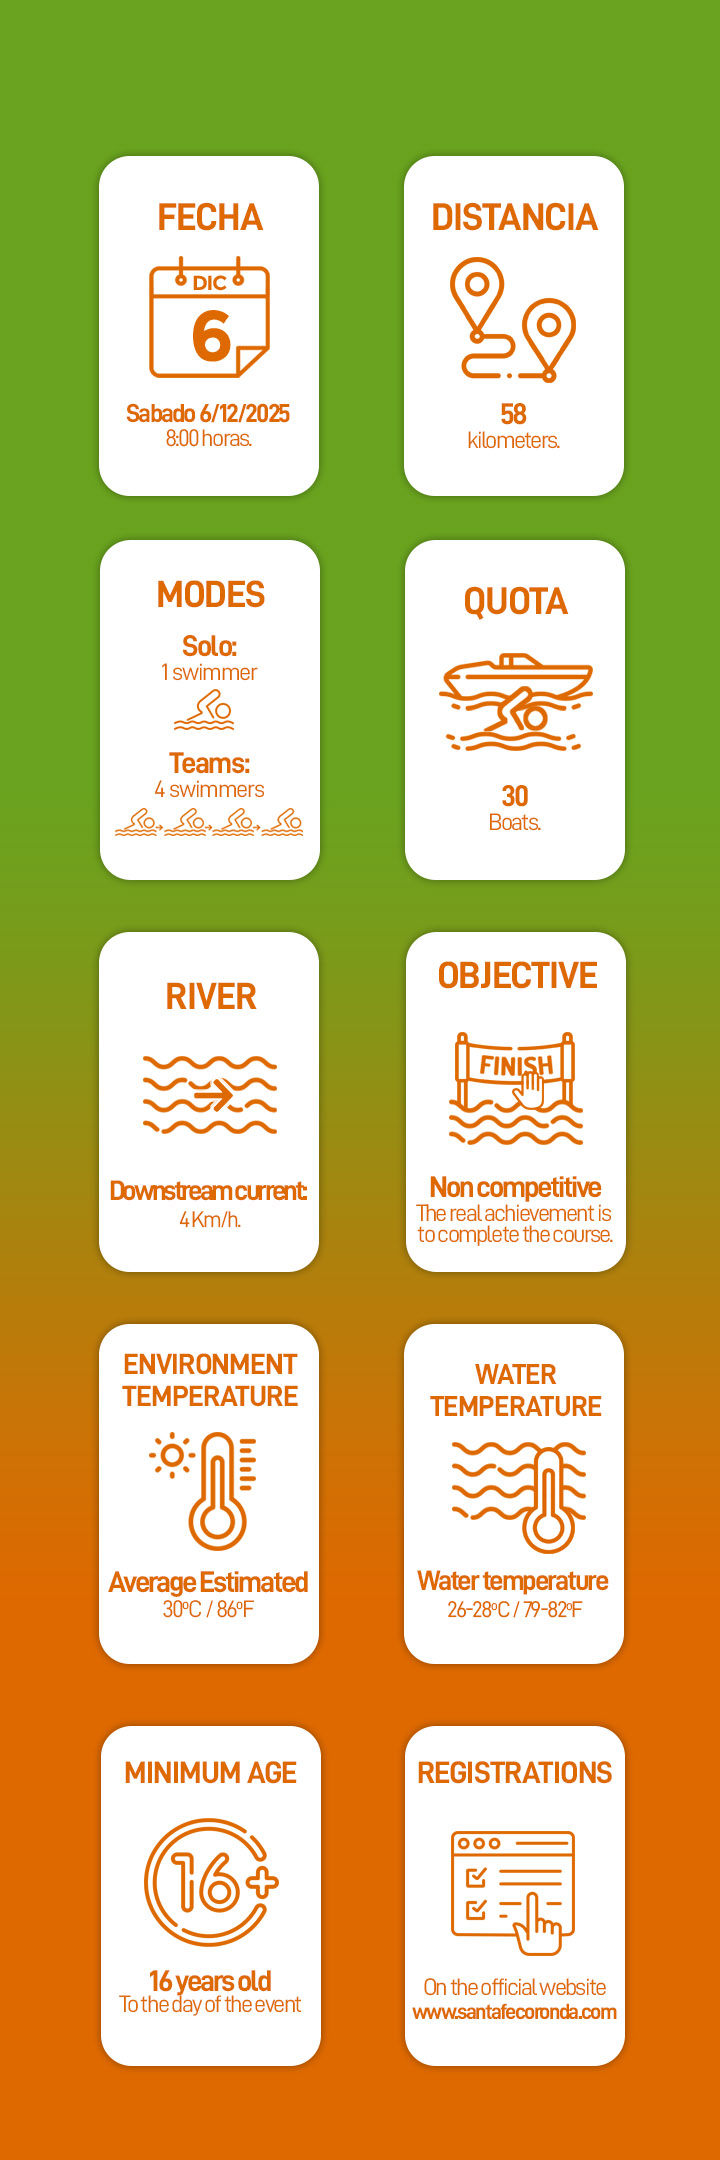
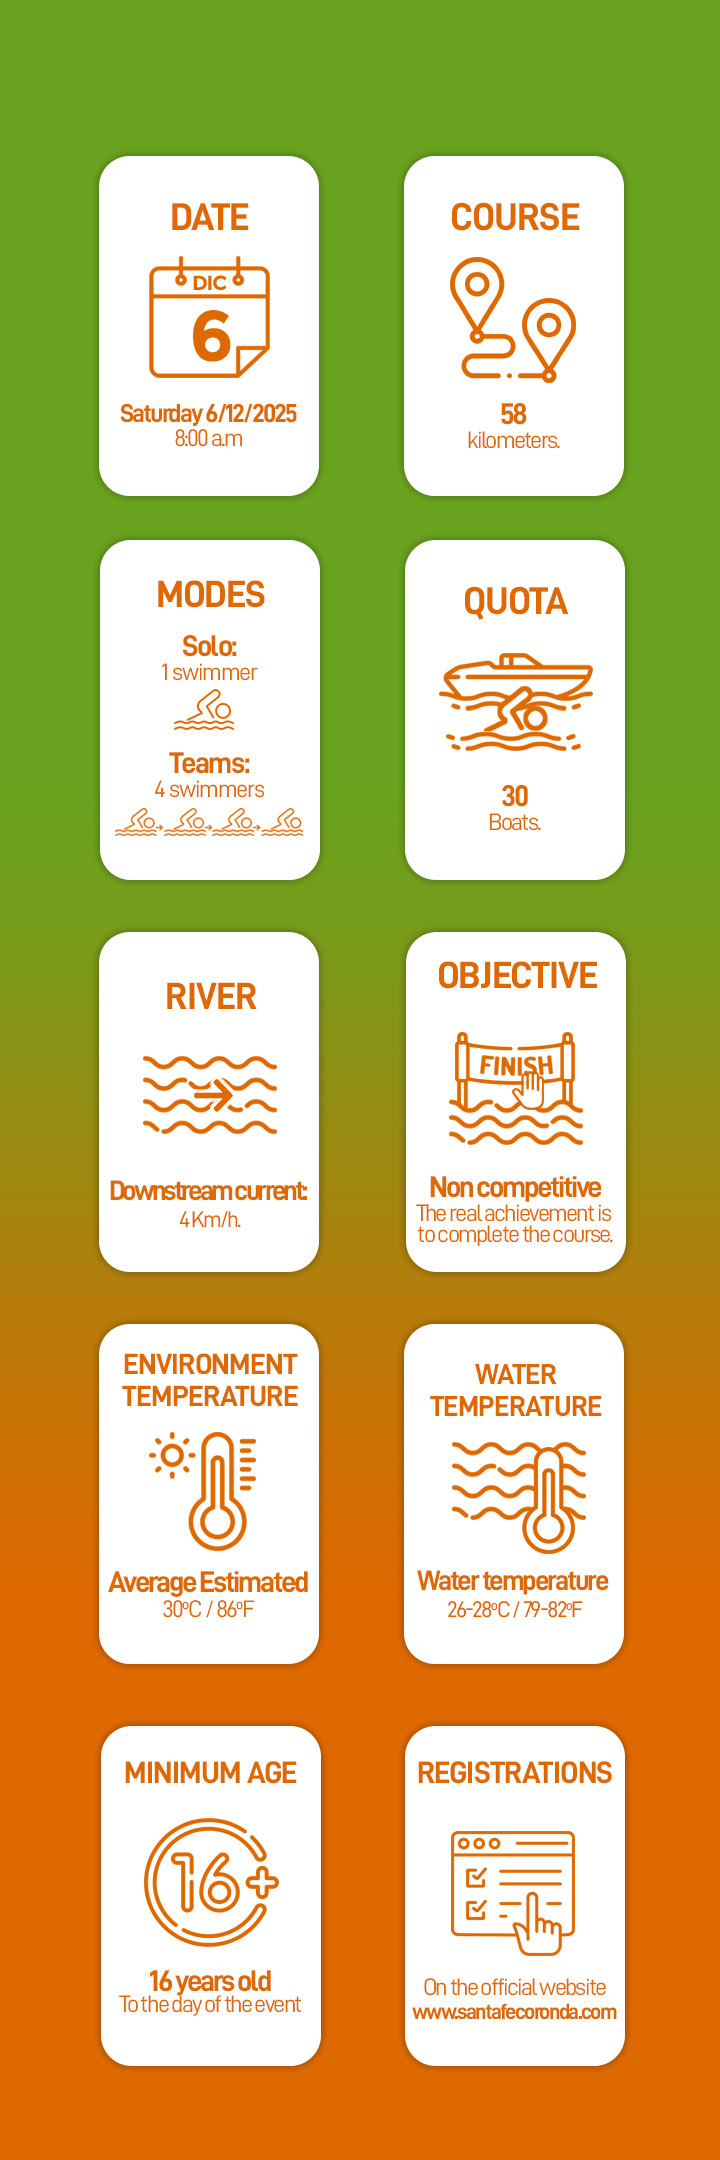
Add files via upload

Changed region(s): [[0.1528, 0.1861, 0.4278, 0.2171], [0.5806, 0.0931, 0.825, 0.1241], [0.2139, 0.0931, 0.3667, 0.1241]]

diff --git a/aficionados_en-GB.html b/aficionados_en-GB.html
@@ -122,13 +122,13 @@
     </div>
 
     <div class="boton-descarga">
-      <a href="reglamento-maraton-santafe-coronda-2025.pdf" target="_blank">
+      <a href="#" target="_blank">
         <svg xmlns="http://www.w3.org/2000/svg" class="icono-descarga" viewBox="0 0 24 24" fill="none" stroke="white" stroke-width="2" stroke-linecap="round" stroke-linejoin="round">
           <path d="M21 15v4a2 2 0 0 1-2 2H5a2 2 0 0 1-2-2v-4" />
           <polyline points="7 10 12 15 17 10" />
           <line x1="12" y1="15" x2="12" y2="3" />
         </svg>
-        <span>Descargar PDF</span>
+        <span>Download PDF</span>
       </a>
     </div>
     <div class="reglamento-item">
@@ -259,99 +259,97 @@
     <div class="reglamento-item">
       <h3 class="punto-general" data-numero="4."> Support Boats</h3>
       <div class="subcontenido">
-        <p>26. <strong>Obligación:</strong> En ambas categorías, todos los Nadadores deberán contar con una embarcación de apoyo a motor durante todo el recorrido.</p>
-        <p>27. <strong>Embarcación Propia</strong></p>
+        <p>26. <strong>Mandatory:</strong> In both categories, all swimmers must have a support motorboat along the course</p>
+        <p>27. <strong>Own boat</strong></p>
         <ul>
-          <li>Cada Nadador o Equipo podrá tener una embarcación de apoyo de su propiedad, la cual deberá ser homologada por el CO.</li>
-        <li>El CO establecerá las características que deberá cumplir tal embarcación y la homologación incluirá la verificación de dimensiones mínimas, equipamiento de seguridad y cumplimiento de normativas vigentes.</li>
-        <li>El momento para informar al CO respecto de la auto provisión de la embarcación será al completar el formulario de Inscripción.</li>
+          <li>Each Swimmer or Team may have their own support boat, which must be approved by the OC.</li>
+        <li>The OC will set the characteristics the boat must fulfill and the approval will include the minimum dimensions, safety equipment and complying of current regulations.</li>
+        <li>The use of  your own support boat must be informed  to the OC in the registration form.</li>
       </ul>
-      <p>28. <strong>Solicitar Embarcación</strong></p>
-      <ul><li>Al momento de la inscripción, un Nadador o Equipo podrá solicitar al CO la provisión de una embarcación de apoyo, abonando los costos correspondientes.
+      <p>28. <strong>Request support boat:</strong>
+</p>
+      <ul><li>When filling in the registration form, the Swimmer or Team may request the OC to be provided a support boat, paying the rental fee. </li>
+      <li>The fee includes the boat, the skipper and the fuel
       </li>
-      <li>El arancel a abonar incluirá embarcación, piloto y combustible.
-      </li>
-      <li>La asignación de embarcaciones estará sujeta a disponibilidad.
-      </li></ul>
-      <p>29. <strong>Personas embarcadas:</strong> El número de personas no deberá superar la capacidad máxima de la embarcación de apoyo, establecida por la autoridad de aplicación.</p>
-        <p>Será obligatoria la presencia de:</p>
-        <ul><li>Timonel o conductor.</li>
-        <li>Entrenador/asistente (categoría SOLO).</li>
-        <li>Nadadores relevistas (categoría EQUIPO).</li>
-        <li>Fiscal (designado por el CO).</li></ul>
-        <p>30. <strong>Responsabilidad:</strong> El Timonel o conductor de la embarcación de apoyo a motor será responsable de garantizar la seguridad de su Nadador o Equipo, debiendo cumplir con las normas de navegación establecidas por el CO y las autoridades competentes.</p>
-        <p>31. <strong>Cumplimiento de Normativas:</strong> La embarcación de apoyo deberá respetar las zonas de navegación asignadas, las velocidades máximas permitidas y cualquier otra directiva impuesta por el CO.</p>
-        <p> El incumplimiento de estas normas podrá derivar en la descalificación de su Nadador o Equipo.</p>
+      <li>The allocation of boats will be subject to availability.</li></ul>
+      <p>29. <strong>People onboard: </strong> The number of people onboard must not exceed the maximum boat capacity, established by the authorities.</p>
+        <p>It will be mandatory the presence of:</p>
+        <ul><li>Skipper or helmsman</li>
+        <li>Coach/assistant (SOLO category).</li>
+        <li>Relay swimmers (TEAM category).</li>
+        <li>Officer (assigned by the OC).</li></ul>
+        <p>30. <strong>Responsibility:</strong> The skipper or helmsman will be responsible for guaranteeing the Swimmer or the Team’s safety, complying with all the navigation regulations established by the OC and the authorities.</p>
+        <p>31. <strong>Compliance with the Rules: </strong> The support boat must respect the assigned navigation areas, the maximum speed allowed and any other guideline imposed by the OC.</p>
+        <p> Not complying with these rules may result in the disqualification of the Swimmer or Team.</p>
 
       </div>
     </div>
     <div class="reglamento-item">
       <h3 class="punto-general" data-numero="5."> The Course</h3>
       <div class="subcontenido">
-        <p>32. <strong>Extensión:</strong> La prueba tendrá una extensión de 58 (cincuenta y ocho) kilómetros y su recorrido será el siguiente:</p>
-        <ul><li>Largada: Balnearios de Costanera Este de Santa Fe.</li>
-        <li>Curso: Curso principal del Río Santa Fe, Cuatro Bocas, curso principal del Río Coronda.</li>
-        <li>Llegada: Balneario Municipal de Coronda, lugar donde estará colocada la placa de toque que indicará el final de la Maratón.</li></ul>
-        <p>33. <strong>Modificación:</strong> El CO podrá modificar el recorrido por razones de seguridad.</p>
-        <p>34.<strong>Nado en Equipos:</strong></p>
-        <ul><li>Los 4 (cuatro) integrantes del relevo podrán largar y llegar nadando juntos. El CO establecerá la distancia hasta (largada) y desde (llegada) donde podrán hacerlo.
+        <p>32. <strong>Extension:</strong> The swim will have an extension of 58 km (fifty-eight km) (36 miles) and the course will be as follows: </p>
+        <ul><li>Start: Costanera Este Beach-Santa Fe.</li>
+        <li>Course: main course of Santa Fe River, Cuatro Bocas, main course of Coronda River.</li>
+        <li>Arrival: Municipal Beach- Coronda, where the touchpad indicates the finish line.</li></ul>
+        <p>33. <strong>Modification:</strong> The OC may modify the course due to safety reasons.</p>
+        <p>34.<strong>Team Swim:</strong></p>
+        <ul><li>The 4 (four) relay swimmers may start and arrive swimming together. The OC will set the distance from the start and to the arrival where they will be allowed to do it.
         </li>
-        <li>Cada Nadador deberá completar 30 (treinta) minutos de nado. Mientras esto ocurre, los otros tres (3) relevistas deberán ir en la embarcación de apoyo a motor.
+        <li>Each Swimmer must swim 30 (thirty) minutes. While this takes place, the other 3 (three) relay swimmers must be onboard of the support motorboat.
         </li>
-        <li>La señal de relevo se realizará a través del golpe de palmas entre Nadadores y deberá ser visible.</li></ul>
-        <p>35. <strong>Tiempo límite:</strong> La duración máxima de la prueba será de 10 (diez) horas. Quien exceda este tiempo deberá abandonar la prueba y subir a su bote de apoyo. En caso de incumplimiento, se aplicará una multa en dinero y posibles sanciones adicionales.</p>
-        <p>36. <strong>Excepción:</strong> El único caso en que un Nadador o Equipo que merezca ser descalificado por exceder el límite de tiempo establecido en el artículo anterior no aplicará es que haya superado la Toma de Agua de Coronda. </p>
+        <li>The relay exchange will be made by touching the swimmer’s palms once his/her leg is finished, and it must be visible.</li></ul>
+        <p>35. <strong>Time limit: </strong> The maximum duration of the event will be 10 (ten) hours. Those out of that time limit must withdraw from the event and get on the support boat. In case of non-compliance, a monetary fine and possible additional penalties will be imposed.</p>
+        <p>36. <strong>Exception:</strong> The only case in which a Swimmer or Team that is to be disqualified for exceeding the time limit set in the above point will not comply, is that the Swimmer or Team had already reached the checkpoint at the water supply pump in Coronda.</p>
       </div>
     </div>
     <div class="reglamento-item">
       <h3 class="punto-general" data-numero="6.">Event Officers</h3>
       <div class="subcontenido">
-        <p>37. Se aplicarán las reglas de la World Aquatics (WA) para aguas abiertas.</p>
-      <p>38. <strong>Fiscal a bordo:</strong> el CO designará un fiscal para cada Nadador o Equipo, el que estará a bordo de la embarcación de apoyo a motor.</p>
-      <p>39. <strong>Cronometraje:</strong> Será manual.</p>
-      <p>40. <strong>Selectivo:</strong> este evento será clasificatorio para la prueba de élite, a disputarse en febrero. Todos aquellos Nadadores que participen en la categoría SOLO y completen el recorrido por debajo del tiempo establecido por el CO -para damas y caballeros- adquirirán derecho para participar en esta prueba.</p>
-      <p>41. <strong>Reunión técnica: </strong>el CO realizará el día previo a la Maratón un encuentro en el que se explicarán todos los detalles inherentes a la prueba. La asistencia es obligatoria, para Nadadores y Asistentes, pudiendo resultar en la descalificación de un Nadador ante ausencia de alguno de ellos.</p>
+        <p>37. The World Aquatics (WA) for Open Water Swimming rules will be applied.</p>
+      <p>38. <strong>Officer onboard:</strong> The OC will designate an officer to each Swimmer or Team, who will be onboard of the support motorboat.</p>
+      <p>39. <strong>Timing:</strong> It will be tracked manually.</p>
+      <p>40. <strong>Qualifier:</strong> This event will be a qualifier for the elite swim, to be held in February. All the Swimmers that participate in the SOLO category and complete the course under the time limit set by the OC- for Women and Men- will be eligible for the elite swim.</p>
+      <p>41. <strong>Technical briefing:  </strong>The OC will hold a technical briefing where all the necessary guidelines will be explained on the day before the event. Attendance is mandatory, both for swimmers and assistants. It may result in the disqualification of a swimmer in case of absence of one of them. </p>
       </div>
     </div>
     <div class="reglamento-item">
       <h3 class="punto-general" data-numero="7."> Registration Fee Refund</h3>
       <div class="subcontenido">
-        <p>42. <strong>Desistimiento:</strong></p>
+        <p>42. <strong>Scratch :</strong></p>
         <ul>
-          <li>El Nadador confirmado por el CO que desiste de participar en la Maratón:
+          <li>The Swimmer  confirmed by the OC who decides not to participate in the event:
             <ul>
-              <li>Hasta el 30 de agosto: tendrá derecho a un reembolso del 50% del total abonado en concepto de arancel de inscripción.</li>
-              <li>Desde el 1 de septiembre y hasta el 30 de septiembre: el reembolso será del 25% del total abonado.</li>
-              <li>Desde el 1 de octubre: No habrá reembolsos.</li>
+              <li>Up to August 30th: will be refunded 50 % of the amount he/she had already paid as registration fee.</li>
+              <li>From September 1st to September 30th: the refund will be 25 %  of the amount already paid.</li>
+              <li>From October 1st on: There will be no refunds.</li>
             </ul>
           </li>
         
-          <li>El Equipo confirmado por el CO que desiste de participar en la Maratón no tendrá derecho a reembolso del arancel de inscripción cualquiera sea el momento del desistimiento.</li>
+          <li>Confirmed Teams by the OC who decide not to participate in the event will not be refunded the registration fee, at any time. In case a Swimmer enrolled as part of a Team cannot participate in the event, may be substituted by another swimmer. This situation must be reported through the protocol established by the OC.</li>
         </ul>
         
-        <p>En caso de que un Nadador inscripto como integrante de un Equipo no pueda participar en la prueba, podrá ser reemplazado por otro Nadador. Esta situación deberá ser informada a través del procedimiento establecido por el CO.</p>
-        <p>43.<strong> Cancelación:</strong> Si las condiciones climáticas impiden el inicio y desarrollo de la prueba, la misma será aplazada para el día siguiente. En caso de cancelación definitiva, el Nadador no tendrá derecho a reembolso del arancel de inscripción.</p>
-        <p>44.<strong> Suspensión:</strong> Una vez iniciada la prueba, el CO podrá suspender la misma por razones de seguridad. En tal caso, el Nadador deberá obedecer la orden de detener la competencia. Los participantes no tendrán derecho a reembolso del arancel de inscripción.</p>
+        <p>43.<strong>Cancellation:</strong> If weather conditions prevent the start and normal conducting of the event, it will be postponed to the following day. In case of a definite cancellation, the Swimmer will not be refunded the registration fee.</p>
+        <p>44.<strong> Suspension:</strong> Once the event has started, the OC may suspend it due to safety reasons. In which case, the Swimmer must obey the order to stop. Participants will not be refunded the registration fee.</p>
         
       </div>
     </div>
     <div class="reglamento-item">
       <h3 class="punto-general" data-numero="8.">Results and Awards</h3>
       <div class="subcontenido">
-        <p>45. Los resultados de ambas categorías se publicarán en <a href="www.santafecoronda.com.ar">www.santafecoronda.com.ar</a> después de cada prueba.</p>
-        <p>46. <strong> Premios:</strong></p>
-        <ul><li>Medalla y Certificado de Participación al Nadador o Equipo que complete el recorrido.</li>
-        <li>El CO podrá establecer otros premios y/o reconocimientos al Nadador o Equipo que arribe a la meta.</li></ul>
+        <p>45. The results in both categories will be published on <a href="www.santafecoronda.com.ar">www.santafecoronda.com.ar</a> after every event.</p>
+        <p>46. <strong> Awards:</strong></p>
+        <ul><li>Medal and Certificate of Participation to the Swimmer or Team that finishes the course.</li>
+        <li>The OC may establish other prizes or awards to the Swimmer or Team that reaches the finish line.</li></ul>
 
       </div>
     </div>
     <div class="reglamento-item">
       <h3 class="punto-general" data-numero="9."> Responsibility</h3>
       <div class="subcontenido">
-        <p>47. Al inscribirse, cada participante declarará conocer y aceptar el reglamento y las normas de WORLD AQUATICS.</p>
-        <p>Además, eximirá de responsabilidad al CO, patrocinadores, autoridades locales y otras partes involucradas en el evento.</p>
-        <p>También autorizará el uso de su imagen en fotografías y videos sin compensación de ningún tipo.</p>
-        <p>48. Antes del 30 de septiembre, el CO enviará el reglamento oficial, que deberá ser firmado junto con la documentación médica requerida. No presentar los documentos en los plazos y las formas establecidas podrá resultar en la exclusión de un Nadador o Equipo sin derecho a compensación.</p>
+        <p>47. At the moment of registration, each participant declares to know and accept the World Aquatics Rules and regulations.</p>
+        <p>Furthermore, he/she will disclaim any responsibility to the OC, the sponsors, local authorities and other parties involved in the event. </p>
+        <p>He/she will authorize the use of his/her image in photographs and videos without compensation of any kind.</p>
+        <p>48. Before September 30th, the OC will send the Official Event Rules, which must be signed along with the required medical documentation. Not submitting the documentation in the established deadlines and forms may result in the exclusion of the Swimmer or Team without right to compensation.</p>
       </div>
     </div>
     
